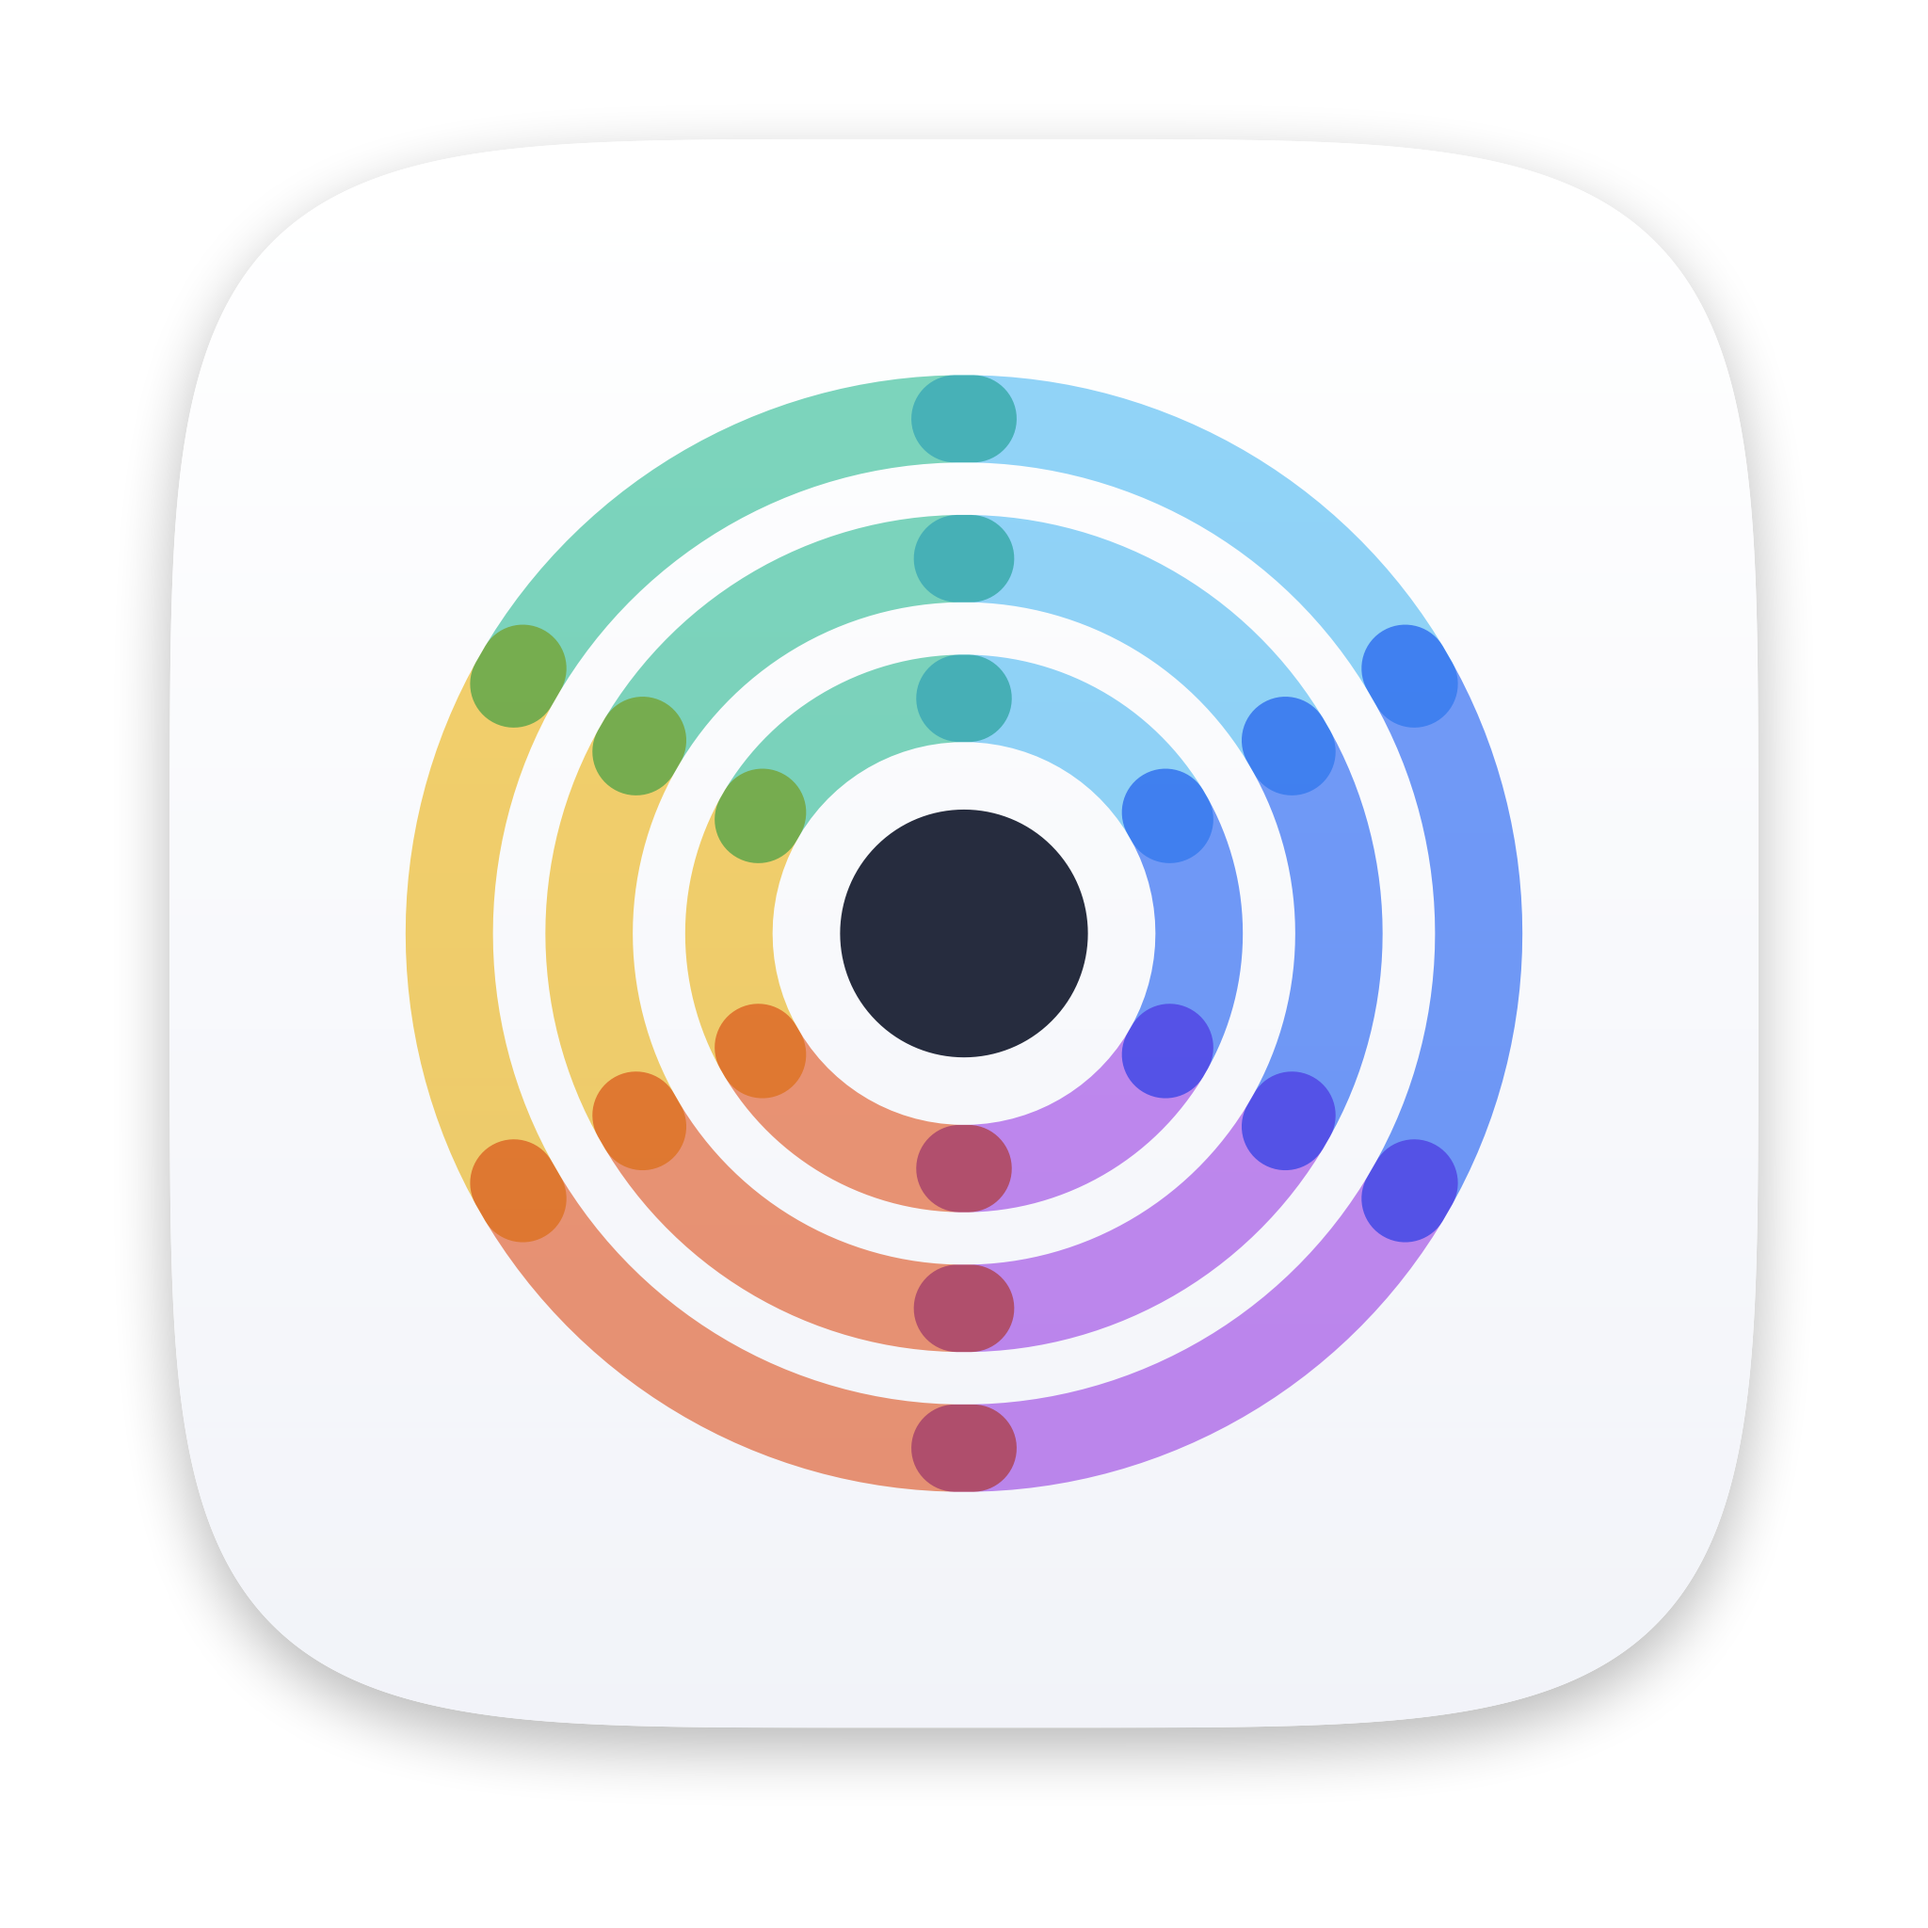
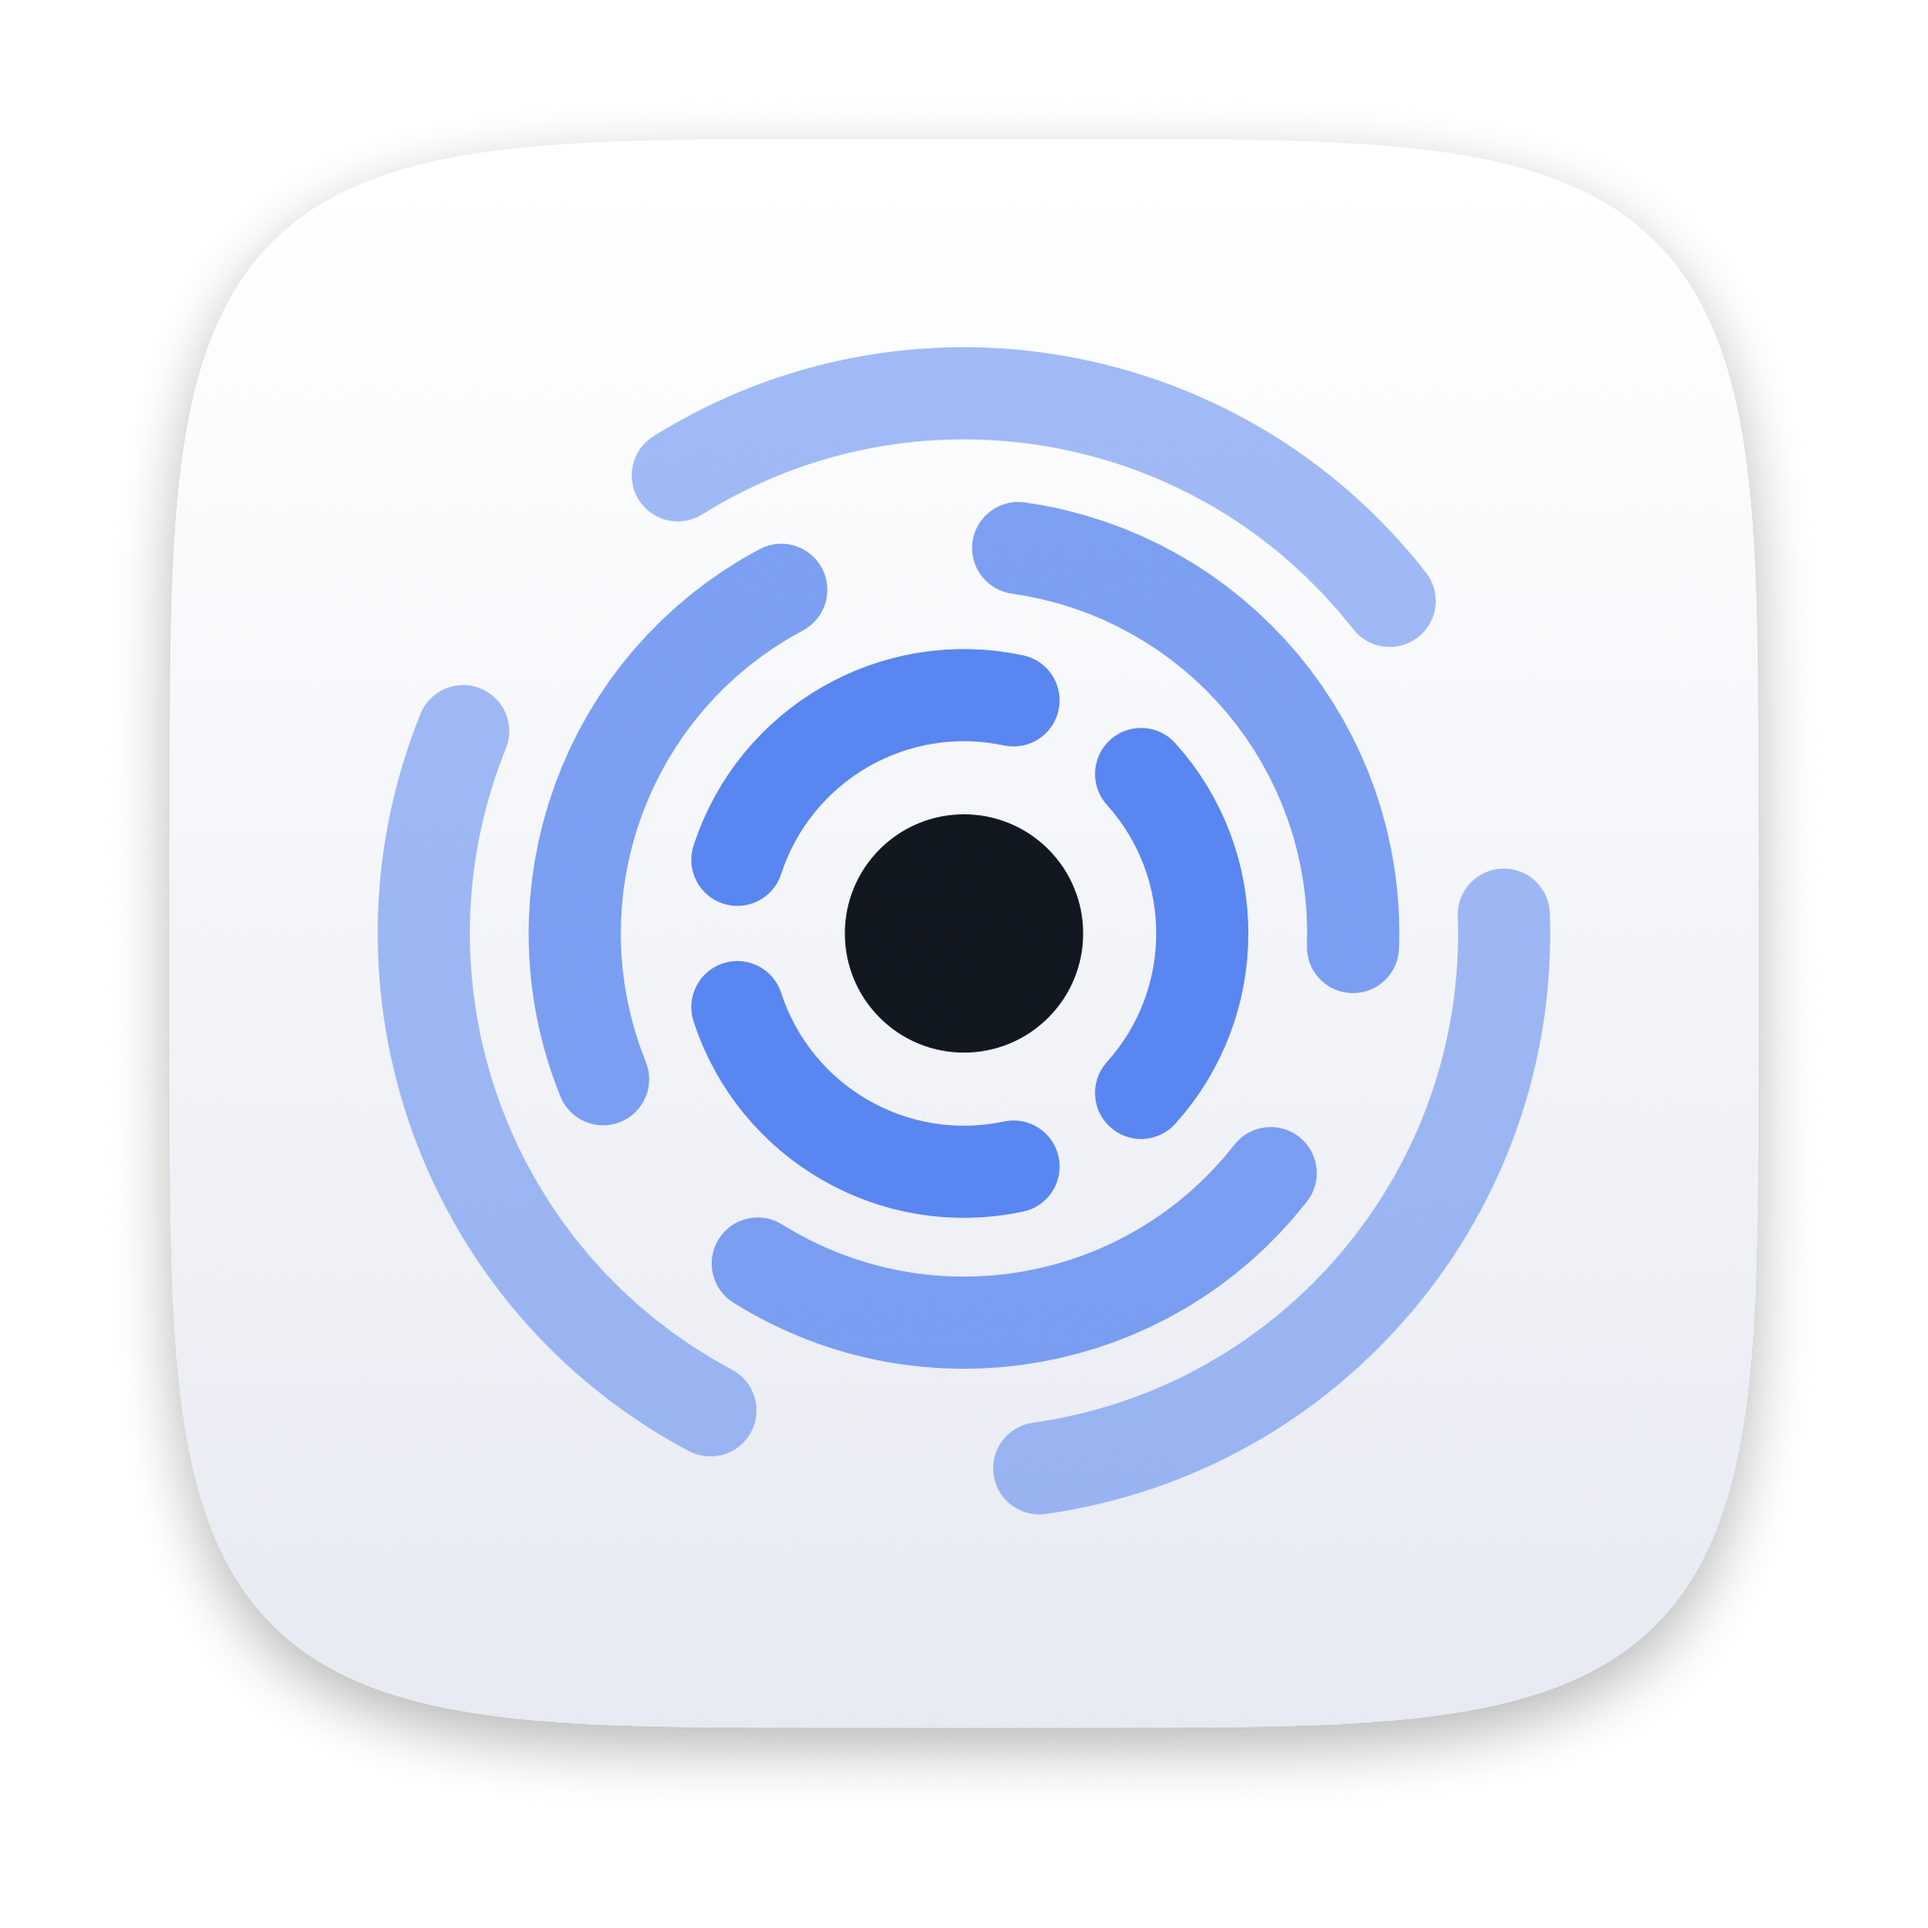
feat(brand): adopt the broken-ring aperture mark (#8)

Changed region(s): [[0.1875, 0.1562, 0.8125, 0.7812]]

diff --git a/Scripts/render_icon.swift b/Scripts/render_icon.swift
@@ -2,9 +2,14 @@ import AppKit
 import Foundation
 
 // FreeSnitch icon, drawn entirely from first principles.
-// The concentric-arc bloom was explored using SF Symbols as a sketching tool,
-// but Apple's SF Symbols license forbids shipping their glyphs inside an app
-// icon or logo, so every shape here is our own geometry.
+// Three concentric rings, each broken into three arcs, around a solid core.
+// The core is this Mac; the rings are its outbound connections; the gaps are
+// where a connection can be let through or refused. Every ring is offset from
+// the one inside it, so the openings never line up into a single channel.
+//
+// The composition was sketched with SF Symbols, but Apple's SF Symbols licence
+// forbids shipping their glyphs inside an app icon or logo, so every shape here
+// is our own geometry.
 
 func squirclePath(in rect: NSRect) -> NSBezierPath {
     let n = 5.0
@@ -57,38 +62,34 @@ func makeIcon(size: CGFloat) -> NSImage {
 
     NSGradient(colors: [
         NSColor(calibratedRed: 1.00, green: 1.00, blue: 1.00, alpha: 1),
-        NSColor(calibratedRed: 0.93, green: 0.94, blue: 0.97, alpha: 1)
+        NSColor(calibratedRed: 0.878, green: 0.898, blue: 0.937, alpha: 1)
     ])!.draw(in: plate, angle: -90)
 
     let center = NSPoint(x: plate.midX, y: plate.midY)
     let unit = plate.width
 
-    // Six directions, each a three-ring burst, overlapping into new hues.
-    let colors: [NSColor] = [
-        NSColor(calibratedRed: 0.25, green: 0.47, blue: 1.00, alpha: 1),
-        NSColor(calibratedRed: 0.35, green: 0.78, blue: 0.98, alpha: 1),
-        NSColor(calibratedRed: 0.20, green: 0.80, blue: 0.64, alpha: 1),
-        NSColor(calibratedRed: 0.98, green: 0.75, blue: 0.18, alpha: 1),
-        NSColor(calibratedRed: 0.98, green: 0.42, blue: 0.28, alpha: 1),
-        NSColor(calibratedRed: 0.72, green: 0.35, blue: 0.95, alpha: 1)
-    ]
-    let radii: [CGFloat] = [unit * 0.148, unit * 0.236, unit * 0.324]
-    let stroke = unit * 0.055
-    let sweep: CGFloat = 62
+    // Soft highlight along the top edge, the way Apple's plates catch light.
+    NSGradient(colors: [NSColor.white.withAlphaComponent(0.16), NSColor.white.withAlphaComponent(0.0)])!
+        .draw(in: NSRect(x: plate.minX, y: plate.midY, width: plate.width, height: plate.height / 2), angle: -90)
 
-    NSGraphicsContext.current?.compositingOperation = .multiply
-    for (index, color) in colors.enumerated() {
-        let heading = CGFloat(index) * 60
-        color.withAlphaComponent(0.88).setStroke()
-        for radius in radii {
-            arc(center: center, radius: radius, heading: heading, sweep: sweep, width: stroke).stroke()
+    let accent = NSColor(calibratedRed: 0.231, green: 0.435, blue: 0.961, alpha: 1)
+    let radii: [CGFloat] = [unit * 0.15, unit * 0.245, unit * 0.34]
+    let stroke = unit * 0.058
+    let sweep: CGFloat = 84
+
+    for (index, radius) in radii.enumerated() {
+        // Each ring fades slightly as it travels outward.
+        accent.withAlphaComponent(1.0 - Double(index) * 0.22).setStroke()
+        let offset = CGFloat(index) * 40
+        for slot in 0..<3 {
+            arc(center: center, radius: radius, heading: CGFloat(slot) * 120 + offset,
+                sweep: sweep, width: stroke).stroke()
         }
     }
-    NSGraphicsContext.current?.compositingOperation = .sourceOver
 
     // The Mac at the centre of its own traffic.
-    let core = unit * 0.078
-    NSColor(calibratedRed: 0.11, green: 0.13, blue: 0.19, alpha: 1).setFill()
+    let core = unit * 0.075
+    NSColor(calibratedRed: 0.055, green: 0.071, blue: 0.098, alpha: 1).setFill()
     NSBezierPath(ovalIn: NSRect(x: center.x - core, y: center.y - core,
                                 width: core * 2, height: core * 2)).fill()
 
